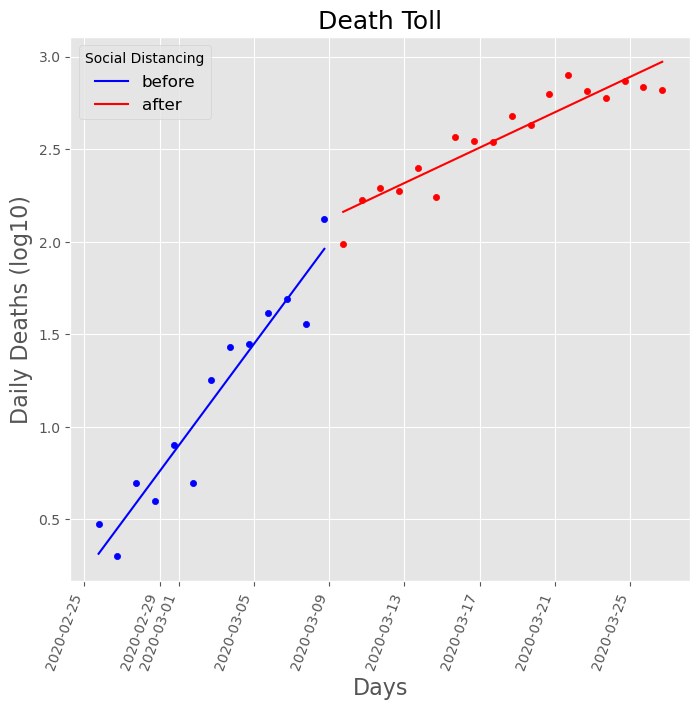
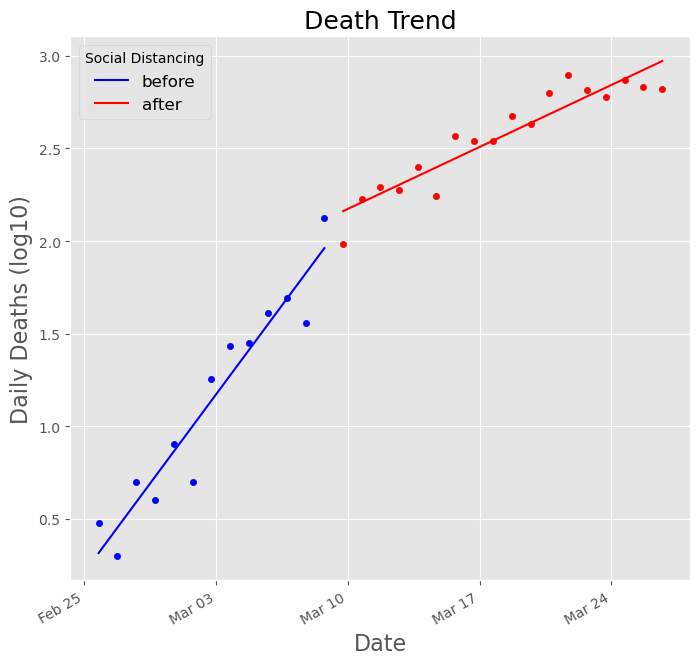
add toc to notebook

diff --git a/DataVis.html b/DataVis.html
@@ -13105,7 +13105,7 @@ $( document ).ready(function(){
 </div>
 <div class="cell border-box-sizing code_cell rendered">
 <div class="input">
-<div class="prompt input_prompt">In&nbsp;[71]:</div>
+<div class="prompt input_prompt">In&nbsp;[1]:</div>
 <div class="inner_cell">
     <div class="input_area">
 <div class=" highlight hl-ipython3"><pre><span></span><span class="c1">#keep repository update</span>
@@ -13139,7 +13139,7 @@ Already up-to-date.
 </div>
 <div class="cell border-box-sizing code_cell rendered">
 <div class="input">
-<div class="prompt input_prompt">In&nbsp;[72]:</div>
+<div class="prompt input_prompt">In&nbsp;[2]:</div>
 <div class="inner_cell">
     <div class="input_area">
 <div class=" highlight hl-ipython3"><pre><span></span><span class="c1">#libraries</span>
@@ -13150,6 +13150,9 @@ Already up-to-date.
 <span class="kn">import</span> <span class="nn">numpy</span> <span class="k">as</span> <span class="nn">np</span>
 <span class="kn">from</span> <span class="nn">scipy.stats</span> <span class="kn">import</span> <span class="n">pearsonr</span>
 <span class="kn">from</span> <span class="nn">sklearn.metrics</span> <span class="kn">import</span> <span class="n">mean_squared_error</span>
+<span class="kn">import</span> <span class="nn">datetime</span>
+<span class="kn">import</span> <span class="nn">matplotlib.dates</span> <span class="k">as</span> <span class="nn">mdates</span>
+<span class="kn">from</span> <span class="nn">matplotlib.dates</span> <span class="kn">import</span> <span class="n">DateFormatter</span>
 <span class="n">plt</span><span class="o">.</span><span class="n">style</span><span class="o">.</span><span class="n">use</span><span class="p">(</span><span class="s1">&#39;ggplot&#39;</span><span class="p">)</span>
 </pre></div>
 
@@ -13160,7 +13163,7 @@ Already up-to-date.
 </div>
 <div class="cell border-box-sizing code_cell rendered">
 <div class="input">
-<div class="prompt input_prompt">In&nbsp;[73]:</div>
+<div class="prompt input_prompt">In&nbsp;[3]:</div>
 <div class="inner_cell">
     <div class="input_area">
 <div class=" highlight hl-ipython3"><pre><span></span><span class="c1">#remove annoying worning about pandas assignment</span>
@@ -13174,7 +13177,7 @@ Already up-to-date.
 </div>
 <div class="cell border-box-sizing code_cell rendered">
 <div class="input">
-<div class="prompt input_prompt">In&nbsp;[74]:</div>
+<div class="prompt input_prompt">In&nbsp;[4]:</div>
 <div class="inner_cell">
     <div class="input_area">
 <div class=" highlight hl-ipython3"><pre><span></span><span class="kn">from</span> <span class="nn">sklearn.linear_model</span> <span class="kn">import</span> <span class="n">LinearRegression</span><span class="p">,</span><span class="n">HuberRegressor</span><span class="p">,</span><span class="n">Ridge</span>
@@ -13195,7 +13198,7 @@ Already up-to-date.
 </div>
 <div class="cell border-box-sizing code_cell rendered">
 <div class="input">
-<div class="prompt input_prompt">In&nbsp;[75]:</div>
+<div class="prompt input_prompt">In&nbsp;[5]:</div>
 <div class="inner_cell">
     <div class="input_area">
 <div class=" highlight hl-ipython3"><pre><span></span><span class="n">df</span> <span class="o">=</span> <span class="n">pd</span><span class="o">.</span><span class="n">read_csv</span><span class="p">(</span><span class="n">os</span><span class="o">.</span><span class="n">path</span><span class="o">.</span><span class="n">join</span><span class="p">(</span><span class="s1">&#39;dati-andamento-nazionale&#39;</span><span class="p">,</span>
@@ -13232,7 +13235,7 @@ Already up-to-date.
 </div>
 <div class="cell border-box-sizing code_cell rendered">
 <div class="input">
-<div class="prompt input_prompt">In&nbsp;[76]:</div>
+<div class="prompt input_prompt">In&nbsp;[10]:</div>
 <div class="inner_cell">
     <div class="input_area">
 <div class=" highlight hl-ipython3"><pre><span></span><span class="n">yR</span><span class="o">=</span><span class="s1">&#39;deceduti_change&#39;</span>
@@ -13272,11 +13275,18 @@ Already up-to-date.
          <span class="n">y</span><span class="o">=</span><span class="s1">&#39;y_pred&#39;</span><span class="p">,</span>
          <span class="n">ax</span><span class="o">=</span><span class="n">ax</span><span class="p">,</span><span class="n">c</span><span class="o">=</span><span class="s1">&#39;r&#39;</span><span class="p">,</span><span class="n">label</span><span class="o">=</span><span class="s1">&#39;after&#39;</span><span class="p">)</span>
 <span class="n">plt</span><span class="o">.</span><span class="n">legend</span><span class="p">(</span><span class="n">title</span><span class="o">=</span><span class="s1">&#39;Social Distancing&#39;</span><span class="p">,</span><span class="n">fontsize</span><span class="o">=</span><span class="mi">12</span><span class="p">)</span>
-<span class="n">plt</span><span class="o">.</span><span class="n">xticks</span><span class="p">(</span><span class="n">rotation</span><span class="o">=</span><span class="mi">70</span><span class="p">,</span><span class="n">ha</span><span class="o">=</span><span class="s1">&#39;right&#39;</span><span class="p">)</span>
 
-<span class="n">plt</span><span class="o">.</span><span class="n">xlabel</span><span class="p">(</span><span class="s1">&#39;Days&#39;</span><span class="p">,</span> <span class="n">fontsize</span><span class="o">=</span><span class="s1">&#39;16&#39;</span><span class="p">)</span>
+<span class="c1">#set ticks every week</span>
+<span class="n">ax</span><span class="o">.</span><span class="n">xaxis</span><span class="o">.</span><span class="n">set_major_locator</span><span class="p">(</span><span class="n">mdates</span><span class="o">.</span><span class="n">WeekdayLocator</span><span class="p">())</span>
+<span class="c1">#set major ticks format</span>
+<span class="n">ax</span><span class="o">.</span><span class="n">xaxis</span><span class="o">.</span><span class="n">set_major_formatter</span><span class="p">(</span><span class="n">mdates</span><span class="o">.</span><span class="n">DateFormatter</span><span class="p">(</span><span class="s1">&#39;%b </span><span class="si">%d</span><span class="s1">&#39;</span><span class="p">))</span>
+
+
+
+<span class="c1">#plt.xticks(rotation=70,ha=&#39;right&#39;)</span>
+<span class="n">plt</span><span class="o">.</span><span class="n">xlabel</span><span class="p">(</span><span class="s1">&#39;Date&#39;</span><span class="p">,</span> <span class="n">fontsize</span><span class="o">=</span><span class="s1">&#39;16&#39;</span><span class="p">)</span>
 <span class="n">plt</span><span class="o">.</span><span class="n">ylabel</span><span class="p">(</span><span class="s1">&#39;Daily Deaths (log10)&#39;</span><span class="p">,</span><span class="n">fontsize</span><span class="o">=</span><span class="s1">&#39;16&#39;</span><span class="p">)</span>
-<span class="n">plt</span><span class="o">.</span><span class="n">title</span><span class="p">(</span><span class="s1">&#39;Death Toll&#39;</span><span class="p">,</span><span class="n">fontsize</span><span class="o">=</span><span class="s1">&#39;18&#39;</span><span class="p">)</span>
+<span class="n">plt</span><span class="o">.</span><span class="n">title</span><span class="p">(</span><span class="s1">&#39;Death Trend&#39;</span><span class="p">,</span><span class="n">fontsize</span><span class="o">=</span><span class="s1">&#39;18&#39;</span><span class="p">)</span>
 <span class="n">plt</span><span class="o">.</span><span class="n">savefig</span><span class="p">(</span><span class="s1">&#39;Fig1.png&#39;</span><span class="p">)</span>
 </pre></div>
 
@@ -13315,7 +13325,7 @@ Already up-to-date.
 </div>
 <div class="cell border-box-sizing code_cell rendered">
 <div class="input">
-<div class="prompt input_prompt">In&nbsp;[77]:</div>
+<div class="prompt input_prompt">In&nbsp;[7]:</div>
 <div class="inner_cell">
     <div class="input_area">
 <div class=" highlight hl-ipython3"><pre><span></span><span class="c1">#x.min()</span>
@@ -13328,13 +13338,10 @@ Already up-to-date.
 </div>
 <div class="cell border-box-sizing code_cell rendered">
 <div class="input">
-<div class="prompt input_prompt">In&nbsp;[78]:</div>
+<div class="prompt input_prompt">In&nbsp;[8]:</div>
 <div class="inner_cell">
     <div class="input_area">
-<div class=" highlight hl-ipython3"><pre><span></span><span class="kn">import</span> <span class="nn">datetime</span>
-<span class="kn">import</span> <span class="nn">matplotlib.dates</span> <span class="k">as</span> <span class="nn">mdates</span>
-<span class="kn">from</span> <span class="nn">matplotlib.dates</span> <span class="kn">import</span> <span class="n">DateFormatter</span>
-<span class="n">plt</span><span class="o">.</span><span class="n">style</span><span class="o">.</span><span class="n">use</span><span class="p">(</span><span class="s1">&#39;default&#39;</span><span class="p">)</span>
+<div class=" highlight hl-ipython3"><pre><span></span><span class="n">plt</span><span class="o">.</span><span class="n">style</span><span class="o">.</span><span class="n">use</span><span class="p">(</span><span class="s1">&#39;default&#39;</span><span class="p">)</span>
 <span class="c1">#df[&#39;data&#39;]=df[&#39;data&#39;].dt.to_period(&#39;D&#39;)</span>
 
 <span class="n">fig</span><span class="p">,</span><span class="n">ax</span><span class="o">=</span><span class="n">plt</span><span class="o">.</span><span class="n">subplots</span><span class="p">(</span><span class="n">figsize</span><span class="o">=</span><span class="p">(</span><span class="mi">8</span><span class="p">,</span><span class="mi">4</span><span class="p">))</span>
@@ -13409,7 +13416,7 @@ Already up-to-date.
 </div>
 <div class="cell border-box-sizing code_cell rendered">
 <div class="input">
-<div class="prompt input_prompt">In&nbsp;[79]:</div>
+<div class="prompt input_prompt">In&nbsp;[9]:</div>
 <div class="inner_cell">
     <div class="input_area">
 <div class=" highlight hl-ipython3"><pre><span></span><span class="kn">import</span> <span class="nn">datetime</span>
@@ -13483,7 +13490,7 @@ Already up-to-date.
 </div>
 <div class="cell border-box-sizing code_cell rendered">
 <div class="input">
-<div class="prompt input_prompt">In&nbsp;[69]:</div>
+<div class="prompt input_prompt">In&nbsp;[&nbsp;]:</div>
 <div class="inner_cell">
     <div class="input_area">
 <div class=" highlight hl-ipython3"><pre><span></span><span class="o">!</span>jupyter nbconvert --to html_toc DataVis.ipynb
@@ -13493,33 +13500,10 @@ Already up-to-date.
 </div>
 </div>
 
-<div class="output_wrapper">
-<div class="output">
-
-
-<div class="output_area">
-
-    <div class="prompt"></div>
-
-
-<div class="output_subarea output_stream output_stdout output_text">
-<pre>[NbConvertApp] Converting notebook DataVis.ipynb to html_toc
-[NbConvertApp] Support files will be in DataVis_files/
-[NbConvertApp] Making directory DataVis_files
-[NbConvertApp] Making directory DataVis_files
-[NbConvertApp] Making directory DataVis_files
-[NbConvertApp] Writing 314671 bytes to DataVis.html
-</pre>
-</div>
-</div>
-
-</div>
-</div>
-
 </div>
 <div class="cell border-box-sizing code_cell rendered">
 <div class="input">
-<div class="prompt input_prompt">In&nbsp;[70]:</div>
+<div class="prompt input_prompt">In&nbsp;[&nbsp;]:</div>
 <div class="inner_cell">
     <div class="input_area">
 <div class=" highlight hl-ipython3"><pre><span></span><span class="o">!</span>git add DataVis*
@@ -13529,50 +13513,6 @@ Already up-to-date.
 </pre></div>
 
     </div>
-</div>
-</div>
-
-<div class="output_wrapper">
-<div class="output">
-
-
-<div class="output_area">
-
-    <div class="prompt"></div>
-
-
-<div class="output_subarea output_stream output_stdout output_text">
-<pre>[master 643e2b3] add toc to notebook
- Committer: Michele Tinti &lt;mtinti@ls29490.home&gt;
-Your name and email address were configured automatically based
-on your username and hostname. Please check that they are accurate.
-You can suppress this message by setting them explicitly. Run the
-following command and follow the instructions in your editor to edit
-your configuration file:
-
-    git config --global --edit
-
-After doing this, you may fix the identity used for this commit with:
-
-    git commit --amend --reset-author
-
- 5 files changed, 151 insertions(+), 9 deletions(-)
- rewrite Fig1.png (99%)
- rewrite Fig2.png (99%)
- rewrite Fig3.png (98%)
-Counting objects: 9, done.
-Delta compression using up to 8 threads.
-Compressing objects: 100% (9/9), done.
-Writing objects: 100% (9/9), 81.62 KiB | 0 bytes/s, done.
-Total 9 (delta 4), reused 0 (delta 0)
-remote: Resolving deltas: 100% (4/4), completed with 4 local objects.
-To https://github.com/mtinti/COVID-19.git
-   7a2032e..643e2b3  master -&gt; master
-Branch master set up to track remote branch master from origin.
-</pre>
-</div>
-</div>
-
 </div>
 </div>
 
